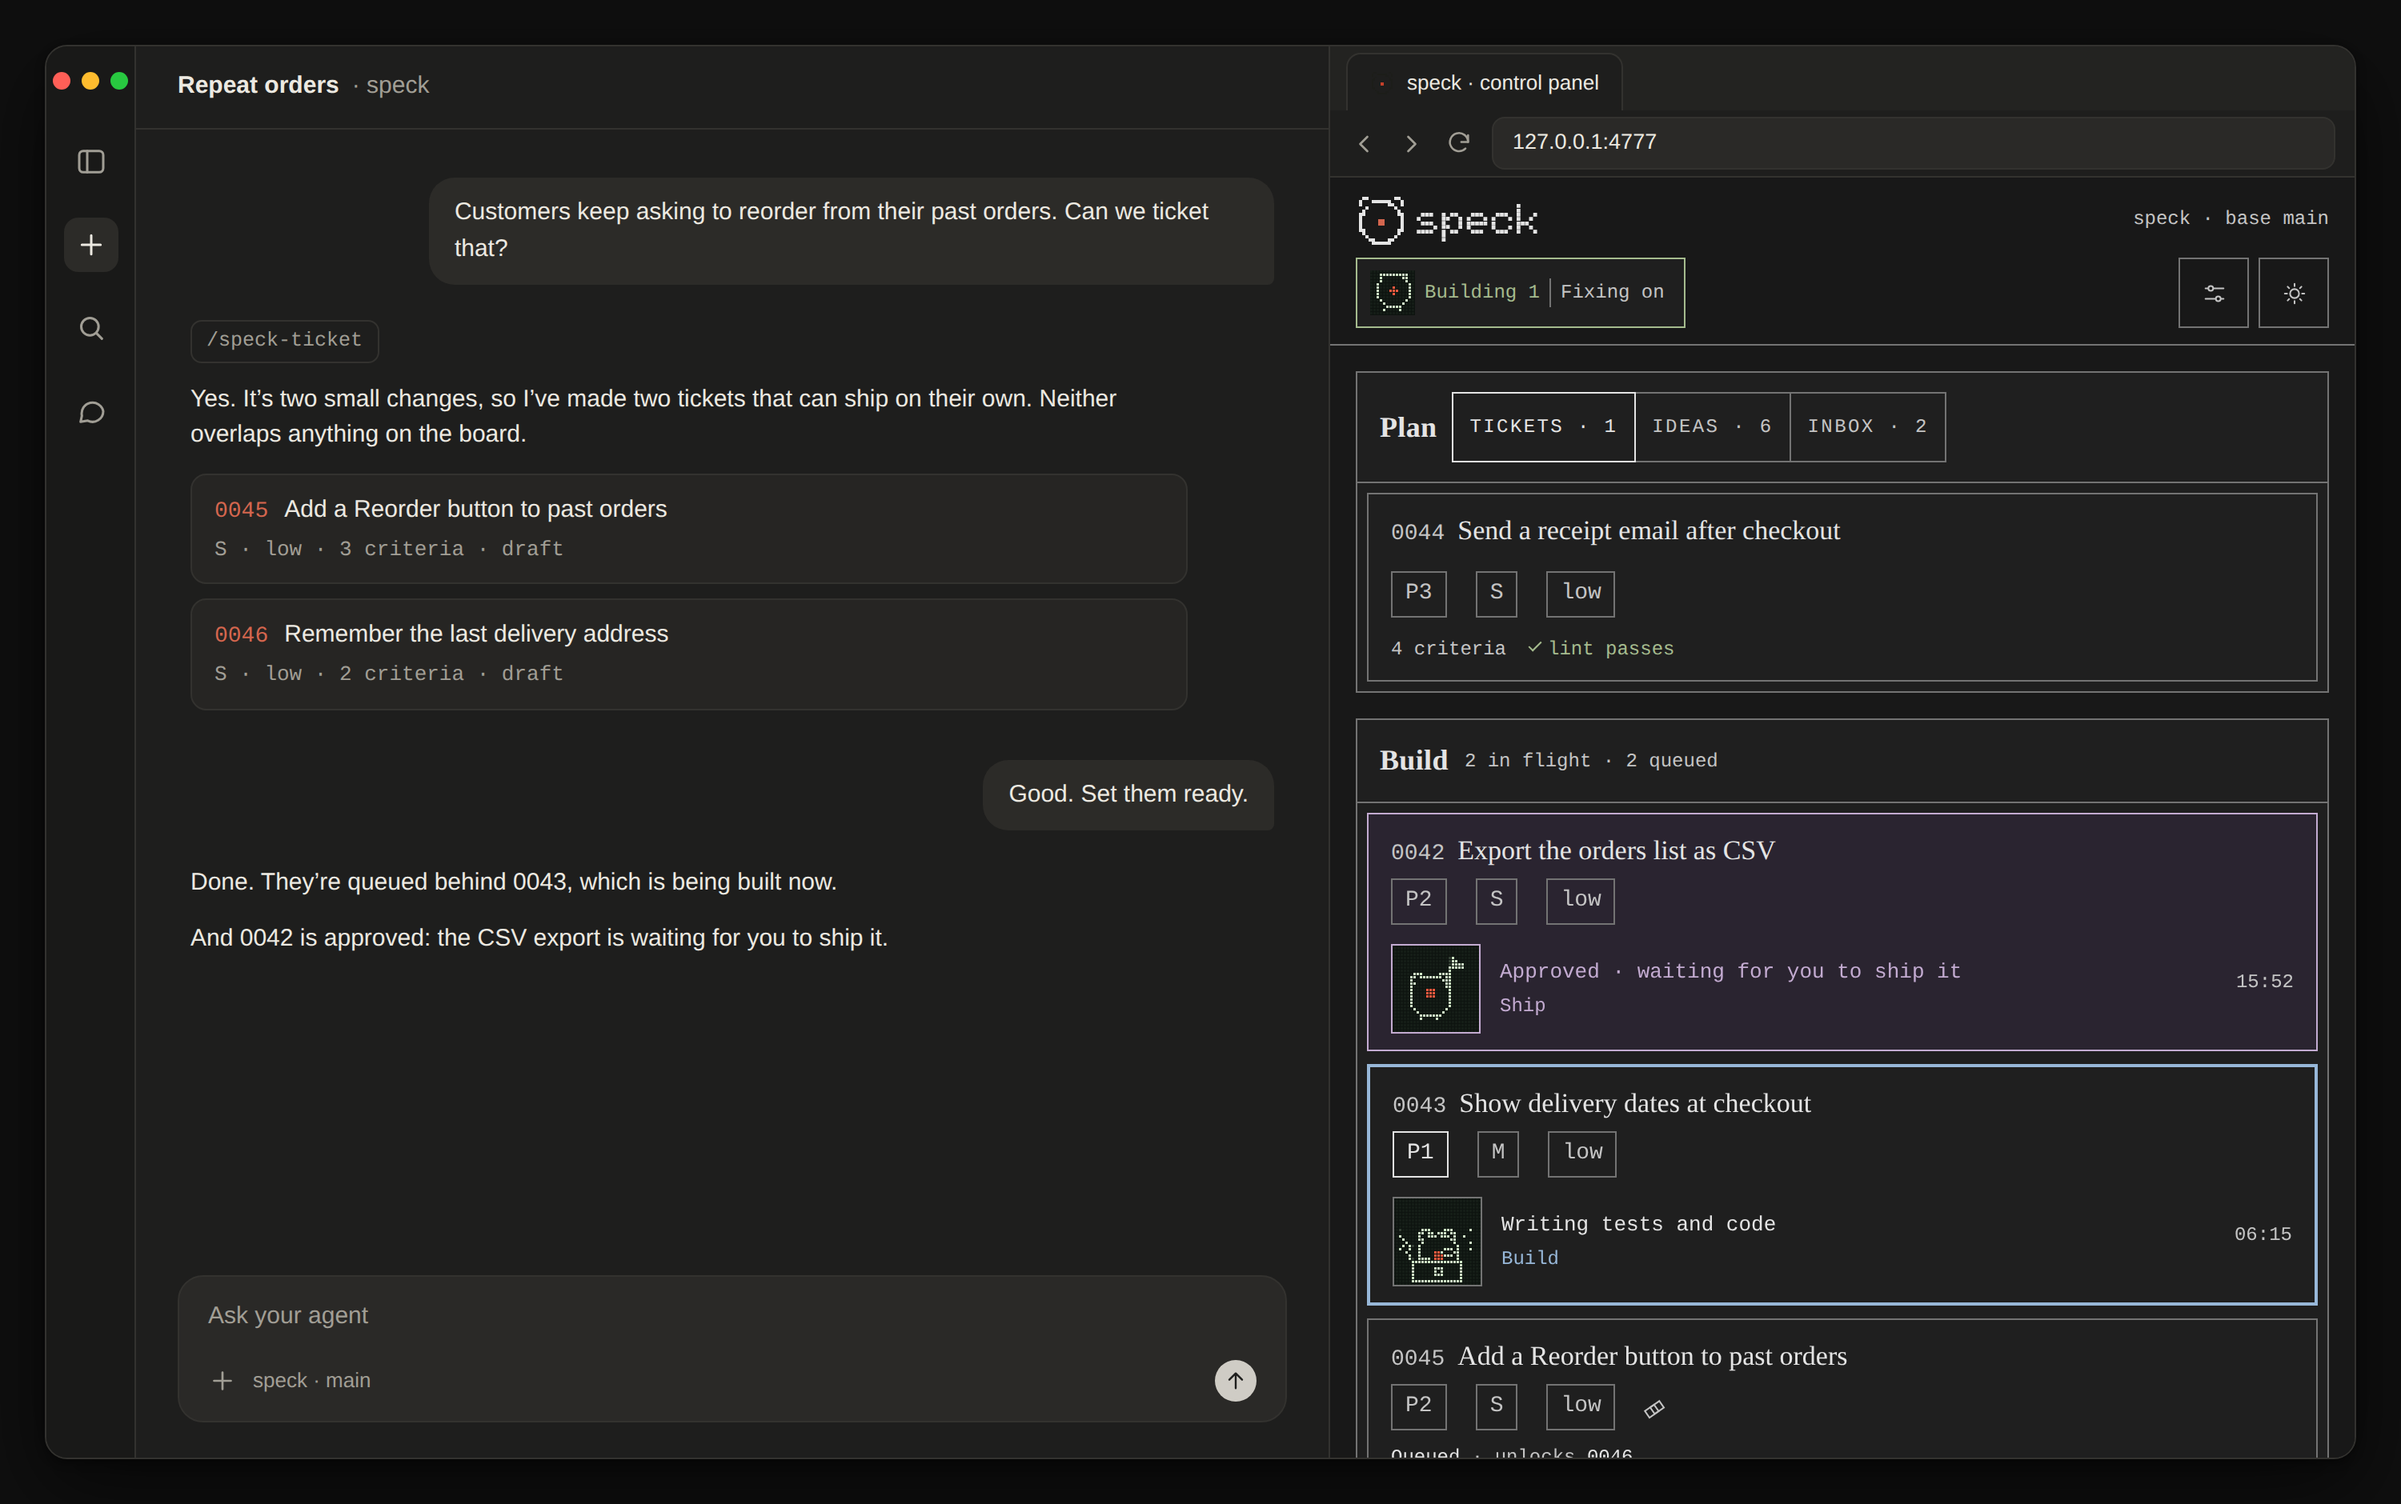
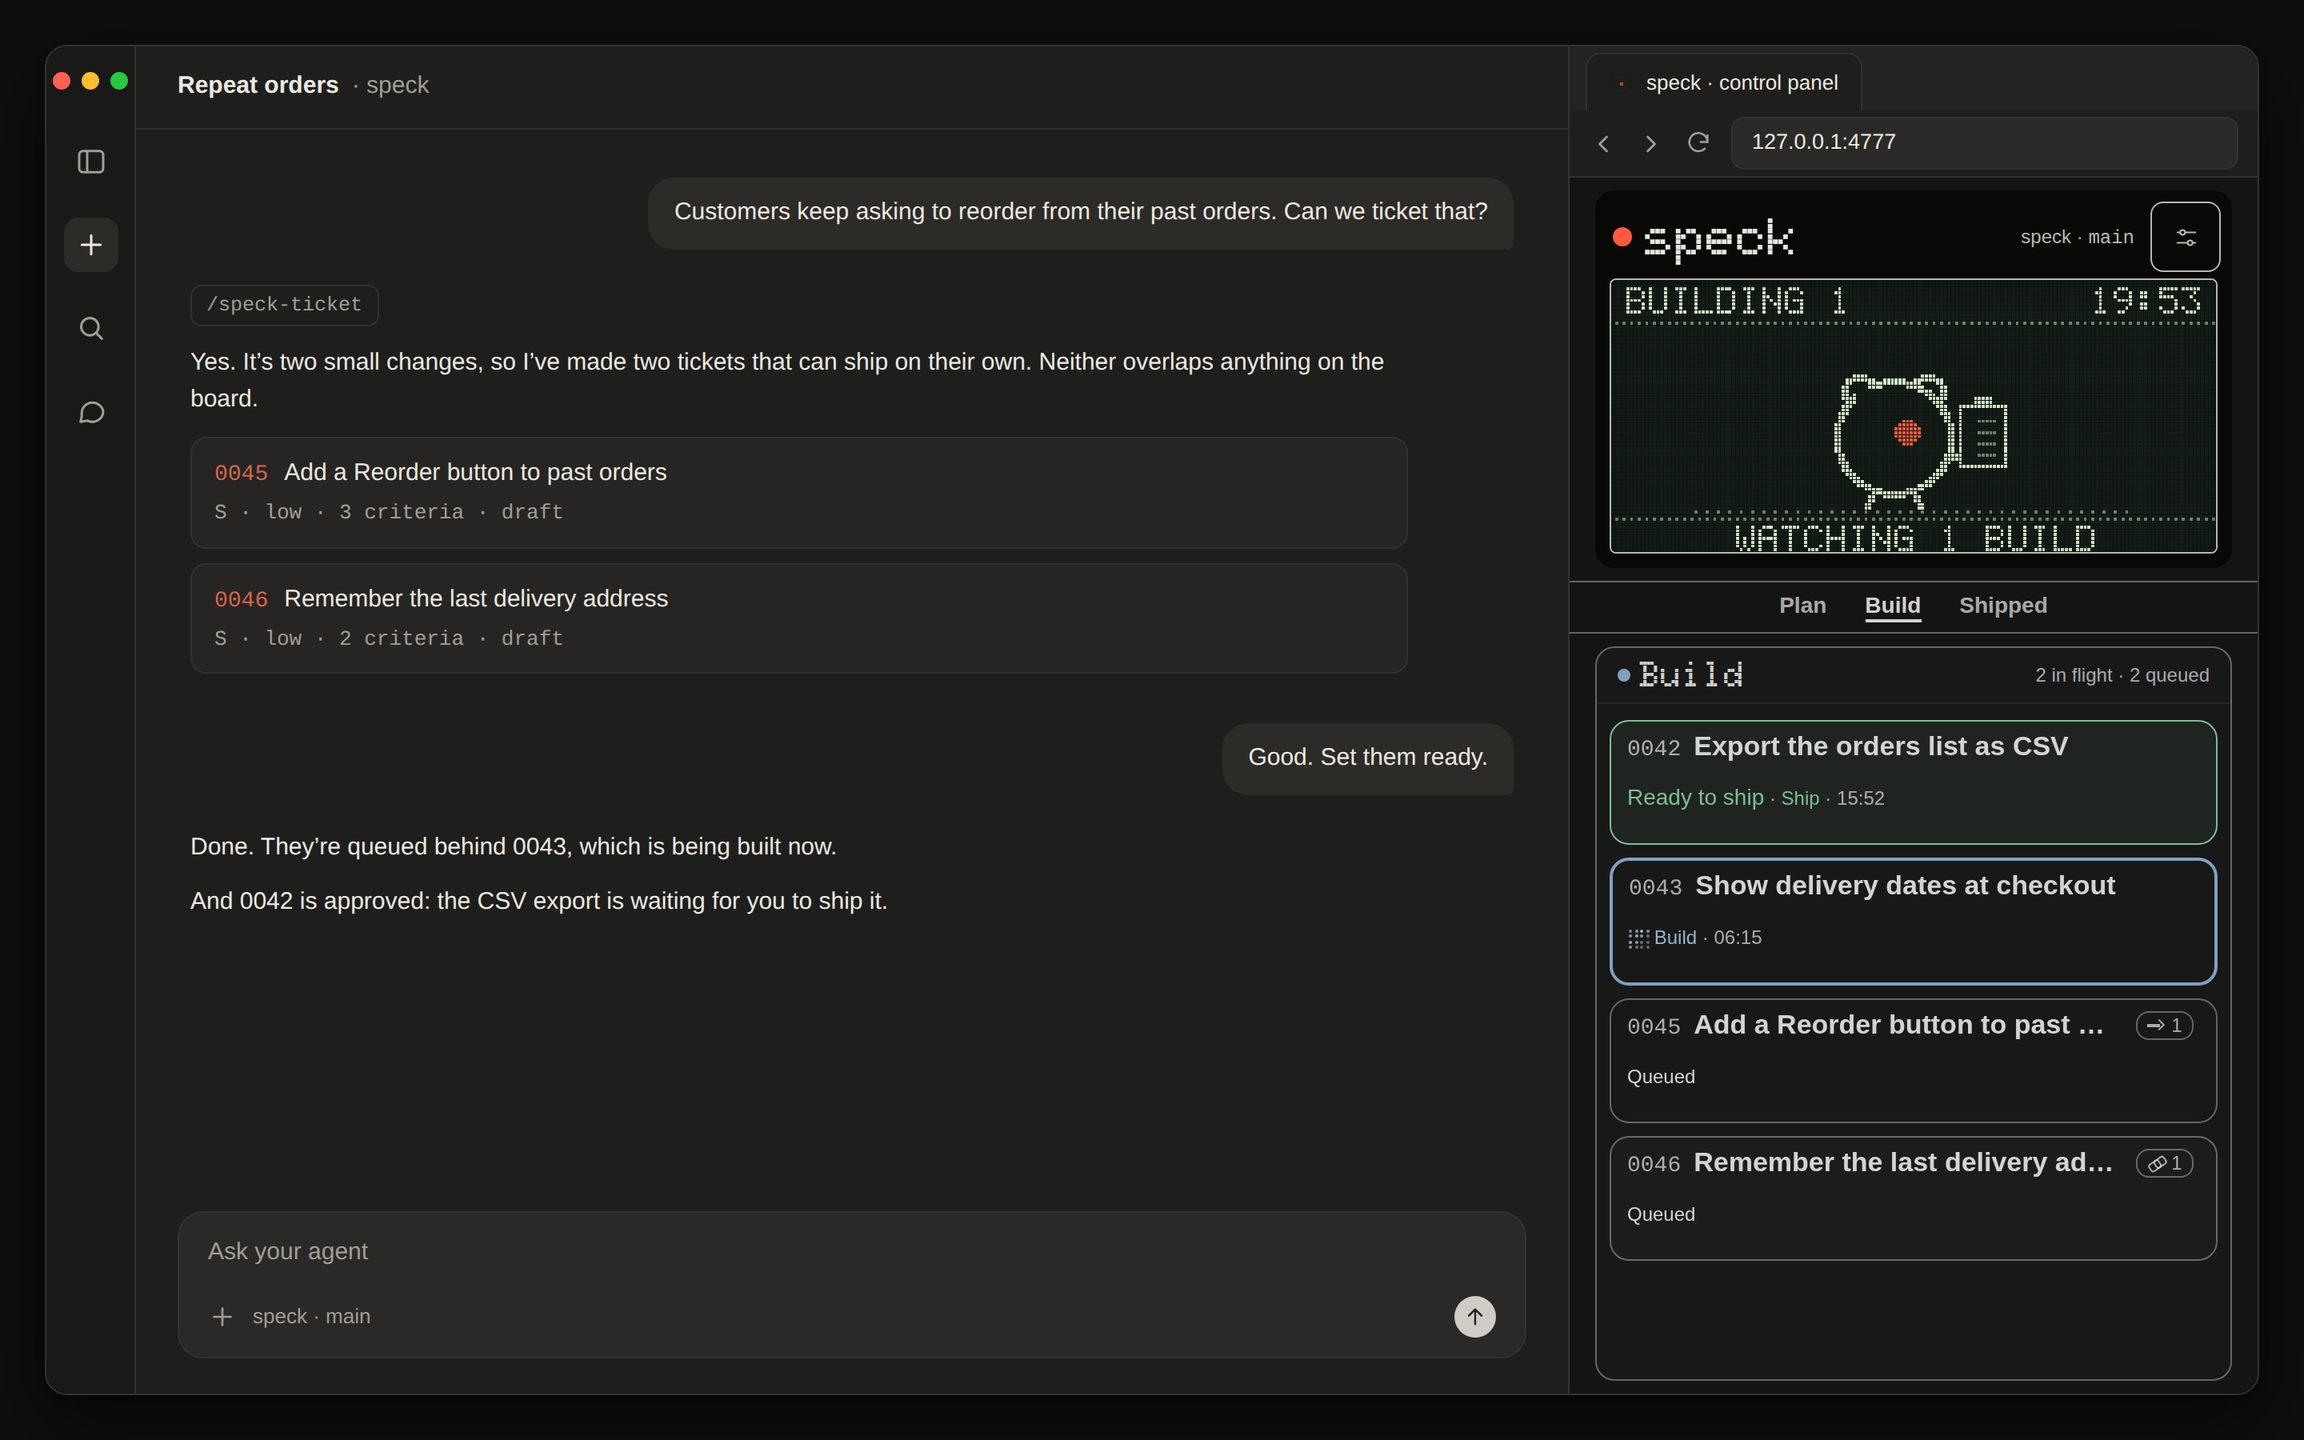
speck(0456): show the 0.15.0 panel in the README's picture

diff --git a/speck/tickets/0456-show-the-0-15-0-panel-in-the-readme-s-picture.md b/speck/tickets/0456-show-the-0-15-0-panel-in-the-readme-s-picture.md
@@ -47,6 +47,9 @@ The README's light and dark pictures show the 0.15.0 panel at phone width, in a 
 - Checked 2026-10-24 (`fc-list`): this machine has only the Liberation fonts, so the panel's system-font stack falls back to Liberation Mono. The draft pictures mapped `Segoe UI` to Liberation Sans with `@font-face { src: local(...) }` in the demo page only.
 - Waits for every 0.15.0 ticket that changes the panel's look or feel, 0453 to 0455 and 0457 to 0469, 0471, 0476 to 0478, 0480, 0481 and 0483 to 0485, so the picture shows the panel as it ships (the user asked on 2026-10-24 for it to come right after all of them). 0452 waits for this.
 - Failing before this build: none
+- AC2's test (`test/readme-0456.test.mjs`) passes before this build too, since 0306's pictures also met those file facts; what's new in the pictures is checked by review.
+- Pictures taken with the demo outside the repo, as 0306's: its server now serves every templates file the panel page loads, fills in `{{page}}`, and maps `Segoe UI` to Liberation Sans in the demo page only; its pane is 430 px wide, shot at 2× in a 1440 × 900 window (2880 × 1800 PNGs).
+- Self-check: no changes (checked both pictures for names, accounts, version numbers, the word Foreman, a Disconnected banner and other products' marks; the panel's text is sans-serif apart from its own monospace ids and tags).
 
 ## In plain words
 <!-- Filled in by the builder before approval: the change for someone who doesn't read code. -->

diff --git a/README.md b/README.md
@@ -14,7 +14,7 @@ You can trust the result without reading the code because every ticket goes thro
 
 <picture>
   <source media="(prefers-color-scheme: dark)" srcset="docs/images/demo-dark.png">
-  <img alt="An agent conversation on the left, with speck's panel open beside it on the right, showing tickets being planned, built and waiting to ship." src="docs/images/demo-light.png">
+  <img alt="An agent conversation on the left, with speck's panel open beside it in a narrow browser pane on the right. The panel's screen shows one ticket building, and its Build lane is open: one ticket approved and ready to ship, one being built and two queued." src="docs/images/demo-light.png">
 </picture>
 
 > Status: 0.14.0, a public preview. It works end to end on a local machine. Expect rough edges.
